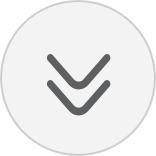
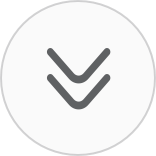
some styling

Changed region(s): [[0.2821, 0.4615, 0.7179, 0.7436], [0.2821, 0.3077, 0.7179, 0.5897]]

diff --git a/source/stylesheets/_page-content.scss b/source/stylesheets/_page-content.scss
@@ -50,7 +50,8 @@
 		.arrow-movedown {
 			position: relative;
 		 	z-index: 10;
-		 	top: 38px;
+		 	margin-bottom: 2.5*$column-gutter;
+		 	top: 25px;
 
 		 	-webkit-animation: pulsate 1.5s ease-in-out infinite;
 			-moz-animation: pulsate 1.5s ease-in-out infinite;
@@ -63,8 +64,8 @@
 			margin-left: auto;
 			margin-right: auto;
 
-			margin-top: 3*$column-gutter;
-			margin-bottom: 3*$column-gutter;
+			margin-top: 4*$column-gutter;
+			margin-bottom: 4*$column-gutter;
 		}
 		border-bottom: 1px solid $contentBorderColor;
 

diff --git a/source/stylesheets/_animations.scss b/source/stylesheets/_animations.scss
@@ -1,13 +1,13 @@
 @-moz-keyframes pulsate {
-    0% {top: 30px;}
-    50% {top: 45px;}
-    100% {top: 30px;}
+    0% {top: 25px;}
+    50% {top: 36px;}
+    100% {top: 25px;}
 }
 
 @-webkit-keyframes pulsate {
-    0% {top: 30px;}
-    50% {top: 45px;}
-    100% {top: 30px;}
+    0% {top: 25px;}
+    50% {top: 36px;}
+    100% {top: 25px;}
 }
 
 @-webkit-keyframes movein {
